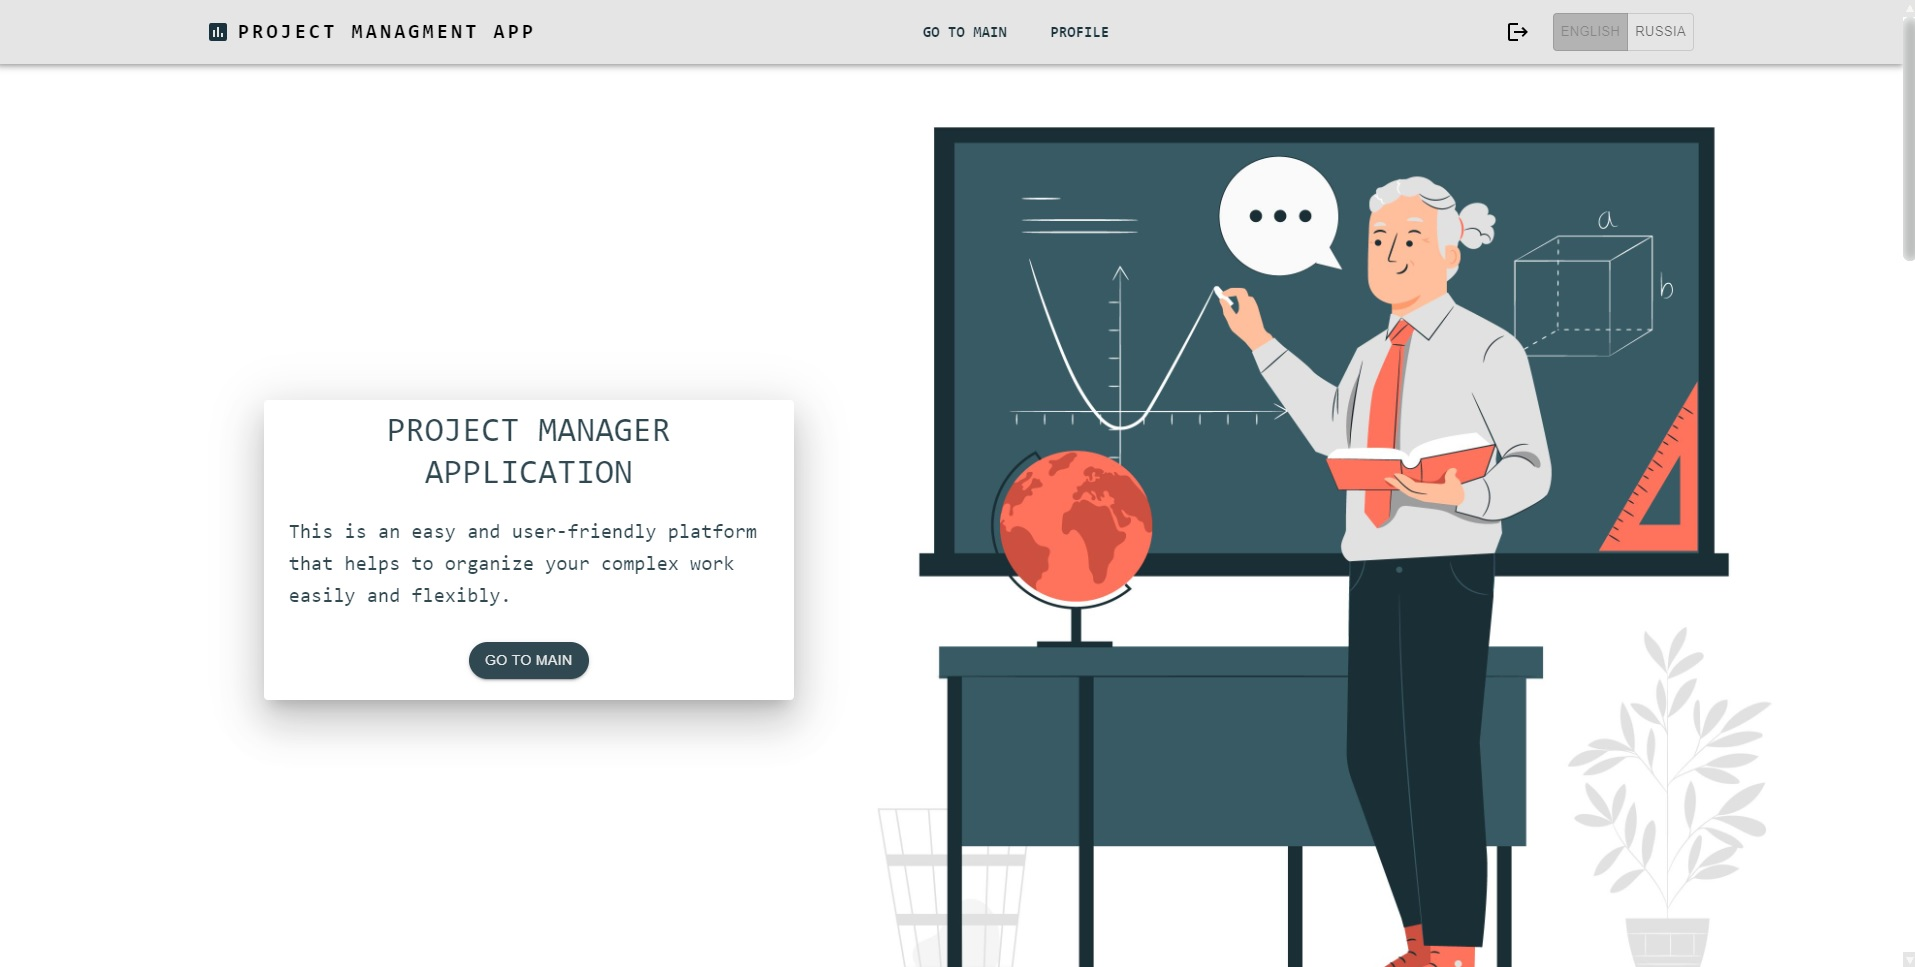
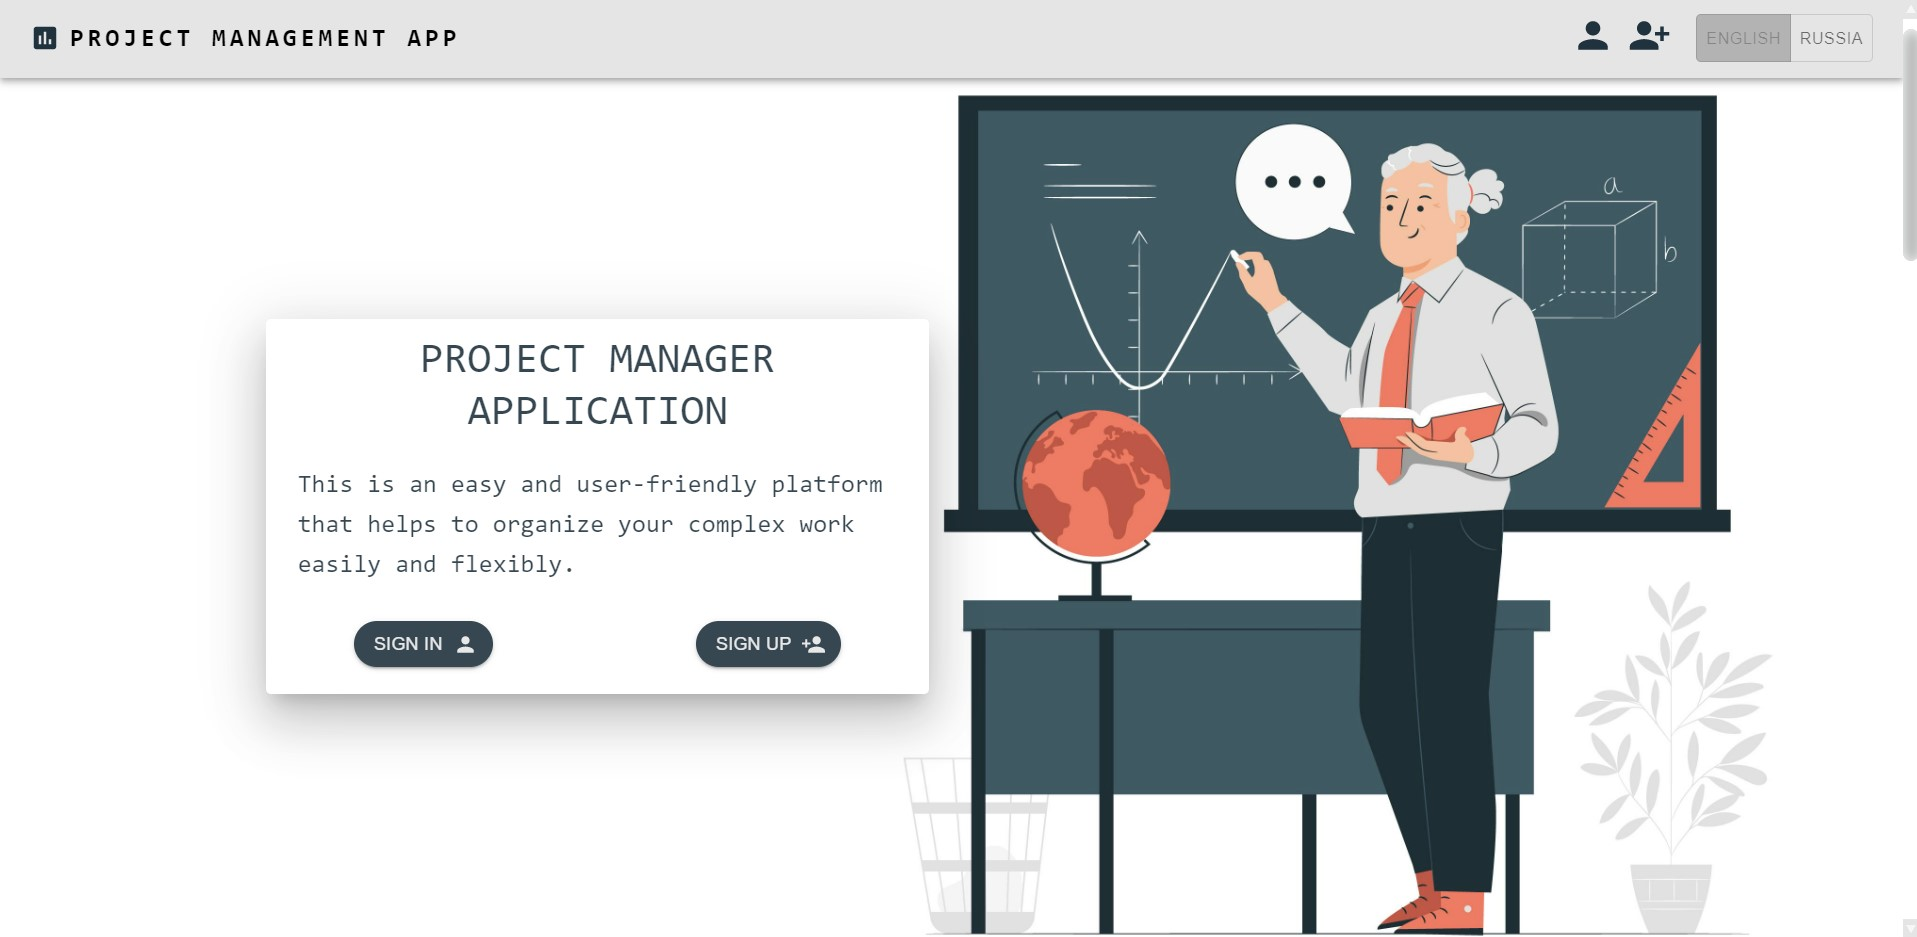
fix: title of the app, docs: replace screenshots

Changed region(s): [[0.0, 0.0, 1.0, 1.0], [0.9859, 0.2476, 1.0, 0.2785], [0.9859, 0.0, 1.0, 0.0309]]

diff --git a/my-app/public/index.html b/my-app/public/index.html
@@ -6,9 +6,9 @@
     <meta name="viewport" content="width=device-width, initial-scale=1" />
     <meta name="theme-color" content="#000000" />
     <meta name="description" content="Web site created using create-react-app" />
-    <meta name="google" value="notranslate">
+    <meta name="google" value="notranslate" />
     <link rel="apple-touch-icon" href="%PUBLIC_URL%/icons.png" />
-    <title>React App</title>
+    <title>Project Management App</title>
   </head>
   <body>
     <noscript>You need to enable JavaScript to run this app.</noscript>

diff --git a/my-app/src/components/Header/index.tsx b/my-app/src/components/Header/index.tsx
@@ -75,7 +75,7 @@ function Header() {
               textDecoration: 'none',
             }}
           >
-            PROJECT MANAGMENT APP
+            PROJECT MANAGEMENT APP
           </Typography>
           <Box
             sx={{
